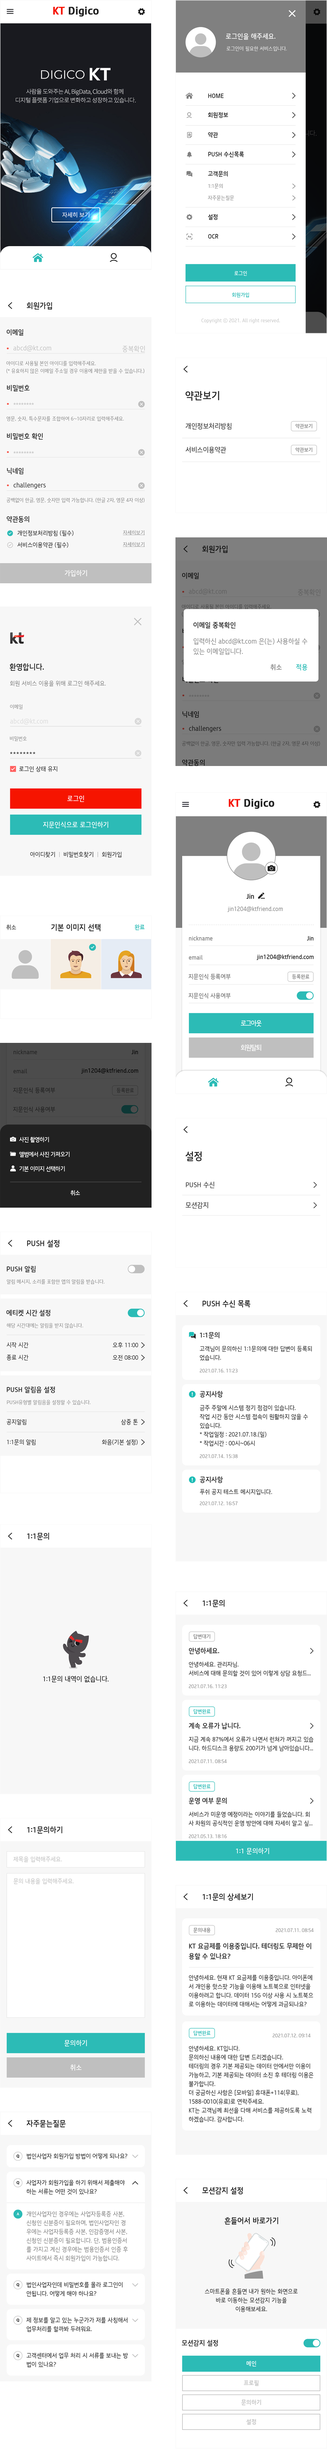
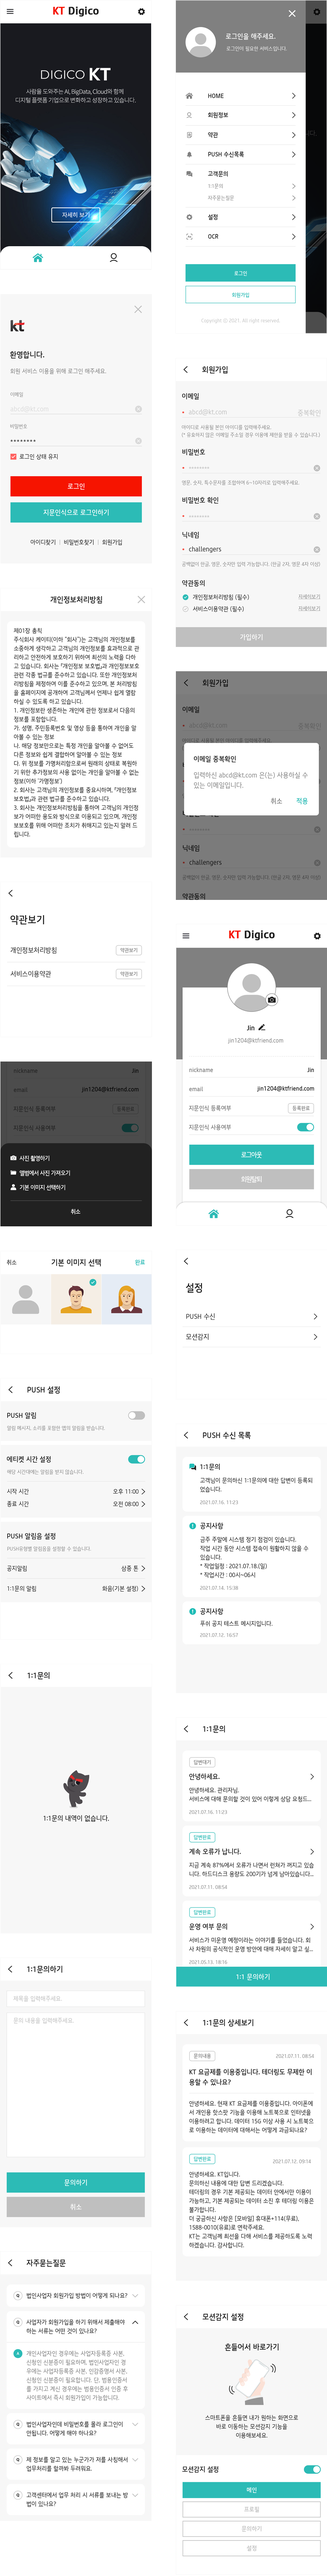
add

diff --git a/kt_always/index.html b/kt_always/index.html
@@ -216,6 +216,8 @@
 				<h2>Terms</h2>
 				<p><img src="images/terms_guide.png" alt="terms_guide" /></p>
 				<div class="h81"></div>
+				<p><img src="images/terms_detail_guide.png" alt="terms_detail_guide" /></p>
+				<div class="h81"></div>
 
 				<a name="setting">
 				<h2>Seeting</h2>
